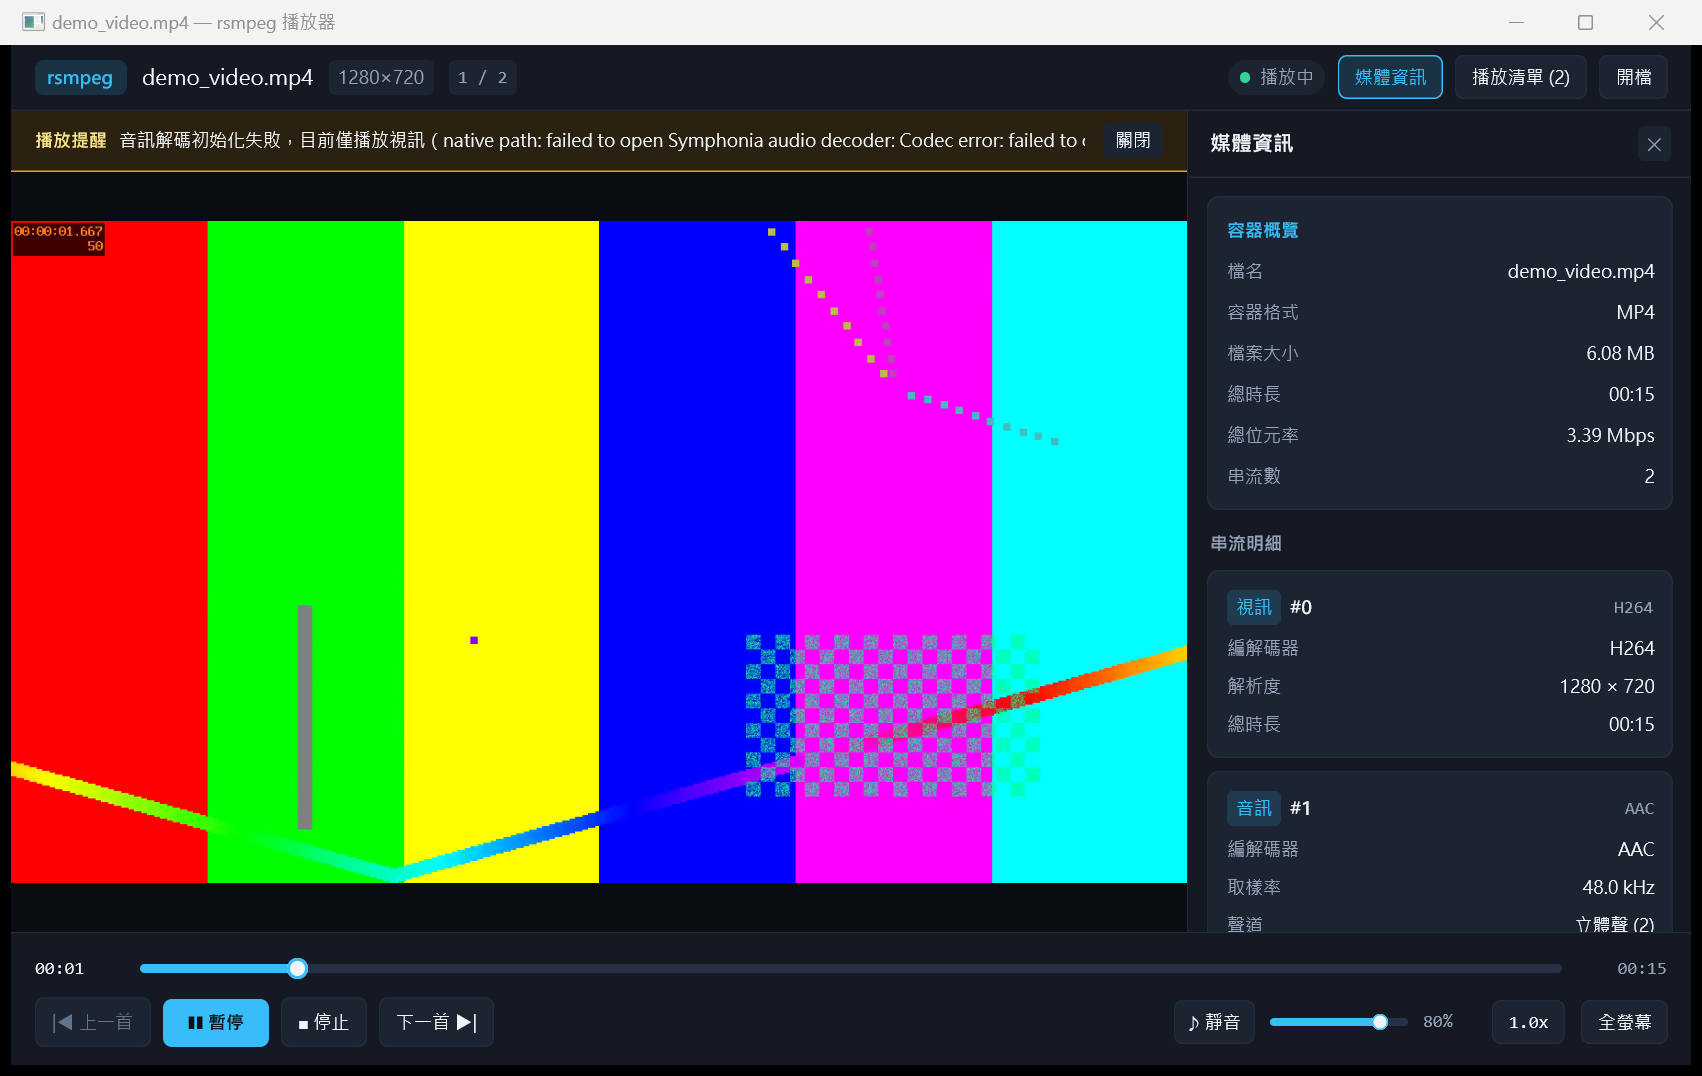
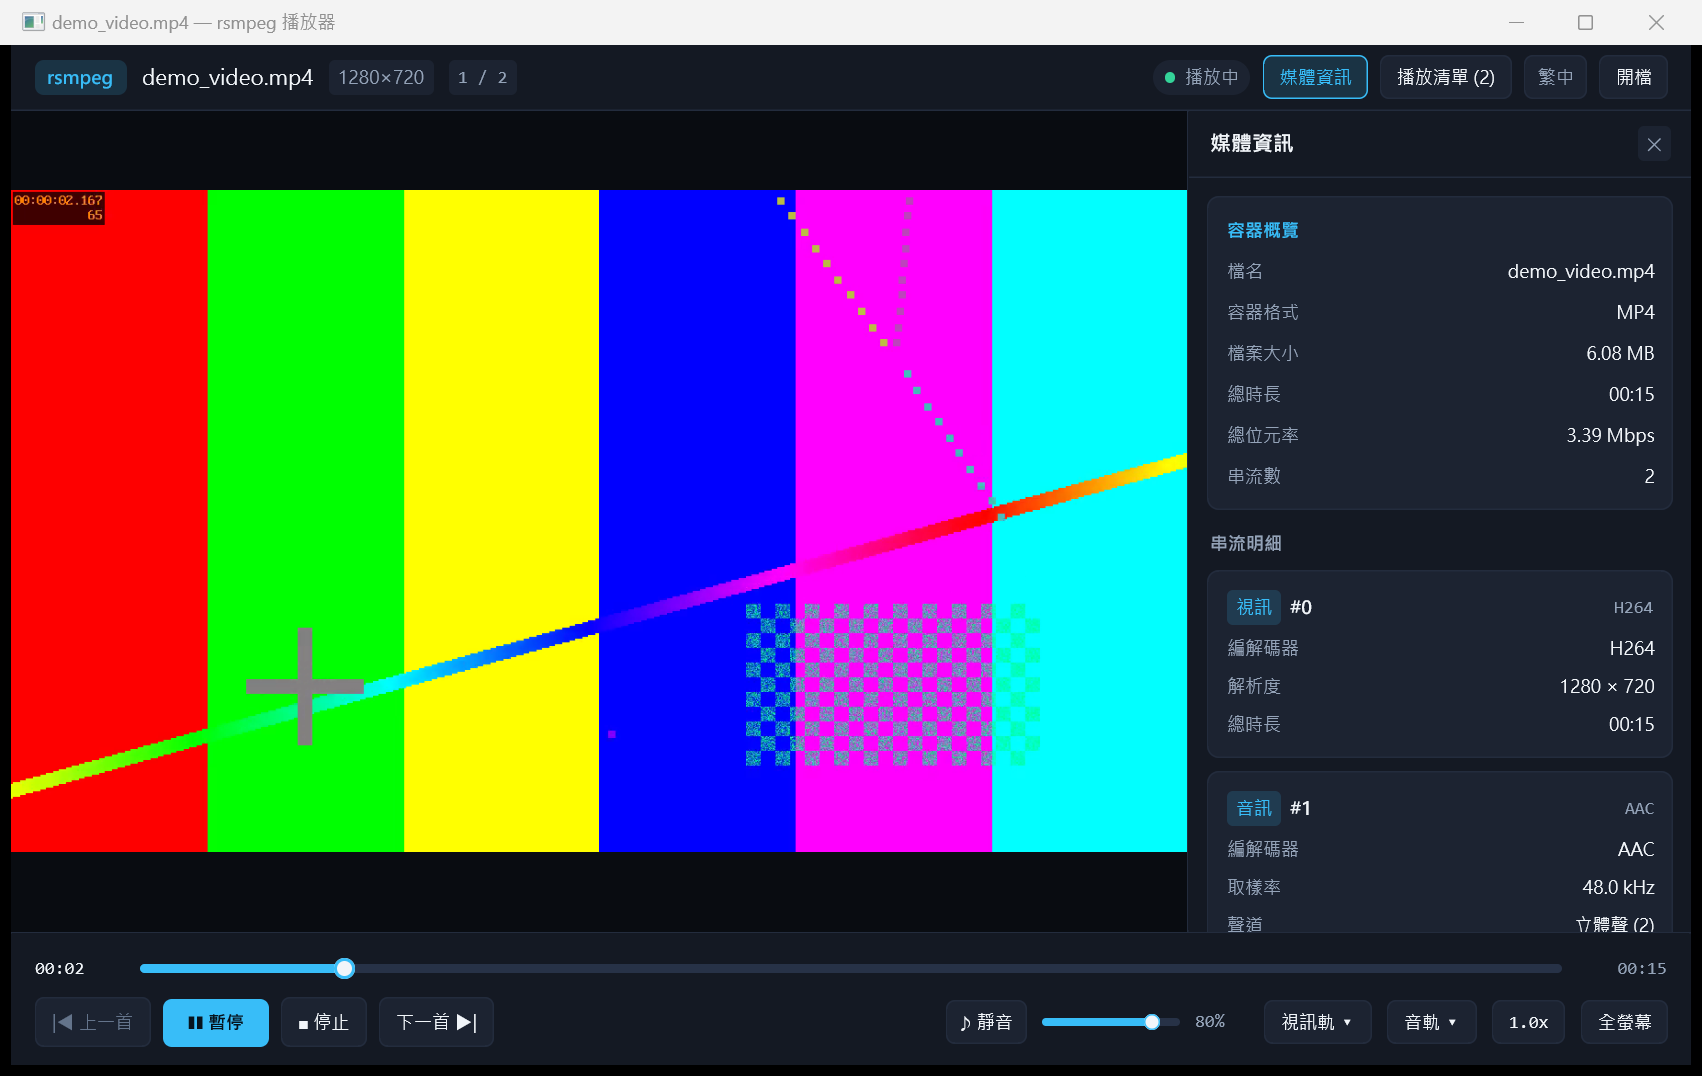
docs(gui): 更新 docs/gui.md（Release 建置大小、AAC 原生解碼、多軌切換、EN_US）與實測截圖

diff --git a/docs/gui.md b/docs/gui.md
@@ -24,10 +24,15 @@ cargo run -p rsmpeg-gui
 # 啟動時直接載入單檔或多檔（自動加入播放清單並播放第一首）
 cargo run -p rsmpeg-gui -- path\to\video.mp4 path\to\audio.wav
 
+# 以英文介面啟動（支援 zh / en，執行中亦可按 G 或點擊頂部列按鈕即時切換）
+cargo run -p rsmpeg-gui -- --lang en path\to\video.mp4
+
 # Release 建置
 cargo build --release -p rsmpeg-gui
 .\target\release\rsmpeg-gui.exe path\to\video.mp4
 ```
+
+> **Release 建置實測結果**：於 Windows `stable-x86_64-pc-windows-gnu`（搭配 Windows 10 SDK `fxc.exe` 預先編譯 GPUI HLSL shader）執行 `cargo build --release -p rsmpeg-gui` 建置通過，產出 `target\release\rsmpeg-gui.exe` 大小為 **44,106,389 bytes（約 42.06 MiB）**。
 
 ### 測試與品質檢查
 
@@ -50,11 +55,13 @@ cargo test --workspace
    - **影片舞台**：使用 GPUI GPU 加速 `RenderImage`（RGBA8 轉 BGRA8）搭配 `ObjectFit::Contain` 維持原始長寬比與黑色信箱區，縮放視窗流暢不卡；更換影格時主動呼叫 `window.drop_image` 釋放舊紋理避免 GPU 記憶體累積。
    - **純音訊舞台**：偵測為純音訊檔（或視訊 codec 不支援而回退純音訊播放）時，顯示封面占位圖示、檔名、容器／取樣率／聲道摘要與即時捲動波形視覺化（由 `rsmpeg-player` 節流送出的 `PlayerEvent::AudioLevel` 驅動）。
 
-3. **播放控制列**
+3. **播放控制列與軌道切換**
    - 播放／暫停（停止或播完後按播放自動重播）、停止、上一首／下一首。
    - 可點擊與跨視窗拖曳的進度列（拖曳中即時預覽目標時間，放開後定位）。
    - 等寬字型顯示目前時間與總時長（`MM:SS` 或 `HH:MM:SS`）。
    - 可拖曳音量滑桿、百分比讀數與靜音切換（記住靜音前音量，解除靜音自動還原）。
+   - **視訊軌／音軌下拉選單**：由 `rsmpeg-player` 發出 `PlayerEvent::Tracks`，底部控制列動態顯示 `視訊軌`／`音軌` 下拉按鈕（多軌時附帶軌道數如 `音軌 (2) ▾`）；展開選單列出串流編號、編解碼器、解析度或取樣率／聲道、ISO-639-2 語言標籤（如 `ENG`／`ZHO`）與支援狀態，點擊即可於當前播放位置即時切換軌道。
+   - **原生 MP4 AAC 音訊解碼**：`rsmpeg-format` 原生 MP4 demuxer 完整解析 `esds` 內的 `ES_Descriptor → DecoderConfigDescriptor → DecoderSpecificInfo`，剝除封裝標頭並將純 `AudioSpecificConfig` 交給音訊解碼器，讓 FFmpeg 產生的標準 MP4（H.264 + AAC）可直接有聲播放。
    - 播放速度切換：`0.5x`、`0.75x`、`1.0x`、`1.25x`、`1.5x`、`2.0x`（同時作用於視訊排程時鐘與 `rodio` 音訊速度）。
    - 全螢幕切換（按鈕、雙擊影片舞台或快捷鍵 `F`，按 `Esc` 退出）。
 
@@ -64,10 +71,10 @@ cargo test --workspace
 5. **播放清單**
    - 支援多檔管理、路徑去重、點擊立即切換、上一首／下一首、單筆移除、清空清單與播完自動連播下一首。
 
-6. **錯誤處理與介面設計**
-   - 不支援的格式、損毀或不存在的檔案皆顯示清楚的繁體中文錯誤卡片或可關閉提示橫幅，不會當掉或卡死 UI；清單內有下一首時可直接跳轉繼續播放。
-   - 深色劇院主題、Windows 下預設採用 `Microsoft JhengHei UI` 正常顯示繁體中文與 `Consolas` 顯示等寬時間碼。
-   - 所有使用者可見字串集中管理於 `rsmpeg-gui/src/i18n.rs`，方便日後擴充英文（`en-US`）或其他語系。
+6. **多語系（繁體中文／英文）與錯誤處理**
+   - 內建完整 `ZH_TW`（預設）與 `EN_US` 語系表（集中管理於 `rsmpeg-gui/src/i18n.rs`），可透過頂部列 `繁中`／`EN` 按鈕、快捷鍵 `G` 或啟動參數 `--lang zh|en` 即時切換，並同步更新視窗標題、控制列、媒體資訊、軌道選單與作用中的錯誤／警告訊息。
+   - 不支援的格式、損毀或不存在的檔案皆顯示清楚的在地化錯誤卡片或可關閉提示橫幅，不會當掉或卡死 UI；清單內有下一首時可直接跳轉繼續播放。
+   - 深色劇院主題、Windows 下預設採用 `Microsoft JhengHei UI` 與 `Consolas` 等寬時間碼。
 
 ---
 
@@ -79,13 +86,16 @@ cargo test --workspace
 | `←` / `→` | 倒轉／快轉 5 秒 |
 | `↑` / `↓` | 音量增加／減少 5% |
 | `F` | 切換全螢幕（雙擊影片區亦可） |
-| `Esc` | 退出全螢幕（非全螢幕時關閉側邊面板） |
+| `Esc` | 關閉軌道選單／退出全螢幕／關閉側邊面板 |
 | `M` | 靜音／取消靜音 |
 | `O` 或 `Ctrl+O` | 開啟媒體檔案對話框 |
 | `S` | 停止播放並歸零 |
 | `N` / `PageDown` | 下一首 |
 | `P` / `PageUp` | 上一首 |
 | `[` / `]` | 降低／提高播放速度 |
+| `V` | 開關視訊軌切換選單 |
+| `A` | 開關音軌切換選單 |
+| `G` | 即時切換介面語系（繁體中文／English） |
 | `I` | 開關媒體資訊面板 |
 | `L` | 開關播放清單側欄 |
 
@@ -103,22 +113,23 @@ cargo test --workspace
 
 ## 實測截圖
 
-以下截圖皆由實際啟動 `rsmpeg-gui.exe` 於 Windows Direct3D 11 視窗擷取（1702×1076 物理像素，150% DPI）：
+以下截圖皆由實際啟動 Release 版 `rsmpeg-gui.exe` 於 Windows Direct3D 11 視窗擷取（1702×1076 物理像素，150% DPI）：
 
 | 畫面 | 截圖 |
 | --- | --- |
-| 歡迎畫面與預設深色介面 | ![歡迎畫面](gui/01_welcome.png) |
-| MP4（1280×720 H.264）播放中＋媒體資訊面板 | ![影片播放與媒體資訊](gui/02_video_playing_info.png) |
+| 歡迎畫面與預設深色介面（含頂部列語系切換鈕） | ![歡迎畫面](gui/01_welcome.png) |
+| FFmpeg MP4（1280×720 H.264 + 48 kHz AAC）原生有聲播放中（零解碼警告）＋媒體資訊面板 | ![有聲影片播放與媒體資訊](gui/02_video_playing_info.png) |
 | 快轉定位至 00:07、暫停與播放清單側欄 | ![Seek 暫停與播放清單](gui/03_video_seek_paused_playlist.png) |
 | 純音訊 WAV 舞台、即時波形視覺化與 probe 資訊 | ![純音訊波形與資訊](gui/04_audio_only_waveform.png) |
 | 損毀檔案錯誤處理畫面 | ![錯誤處理畫面](gui/05_error_handling.png) |
+| 多軌 MP4 音軌切換下拉選單（雙 H.264 + 雙 AAC `ENG`/`ZHO`） | ![多軌音軌下拉選單](gui/06_multitrack_audio_menu.png) |
+| EN_US 英文語系＋實測切換至視訊軌 `#1`（`640×360` SMPTE 色條）與視訊軌選單 | ![英文介面與視訊軌切換](gui/07_english_ui_video_tracks.png) |
 
 ---
 
 ## 已知限制
 
 - **視訊／音訊 codec 覆蓋率取決於 `rsmpeg-player`**：目前原生視訊解碼僅支援 H.264（OpenH264）；遇到 HEVC/VP9/AV1 等未支援視訊軌會顯示提示橫幅並嘗試以純音訊模式播放。
-- **原生 MP4 AAC `esds` 限制**：部分 FFmpeg 產生的 MP4 在 `rsmpeg-format` 原生 demux 路徑下 `esds` extradata 尚未完整剝離封裝標頭，可能導致原生路徑音訊解碼初始化失敗而顯示非致命提示並僅播放視訊（此屬既有 `rsmpeg-format`/`rsmpeg-player` 限制，GUI 會清楚回報而不當掉）。
 - **音訊變速音高**：播放速度使用 `rodio::Sink::set_speed`，屬重採樣變速，尚未實作維持原音高（time-stretch）演算法。
 - **拖放資料夾深度**：拖放資料夾時僅掃描第一層的支援媒體檔案，避免深度遞迴掃描造成延遲。
 - **無頭 CI 測試範圍**：GPUI 視窗渲染本身需要圖形介面，單元測試涵蓋非 UI 核心邏輯（狀態機、時間與單位格式化、快捷鍵對應、播放清單、probe 解析、RGBA→BGRA 轉換與長寬比計算）。
